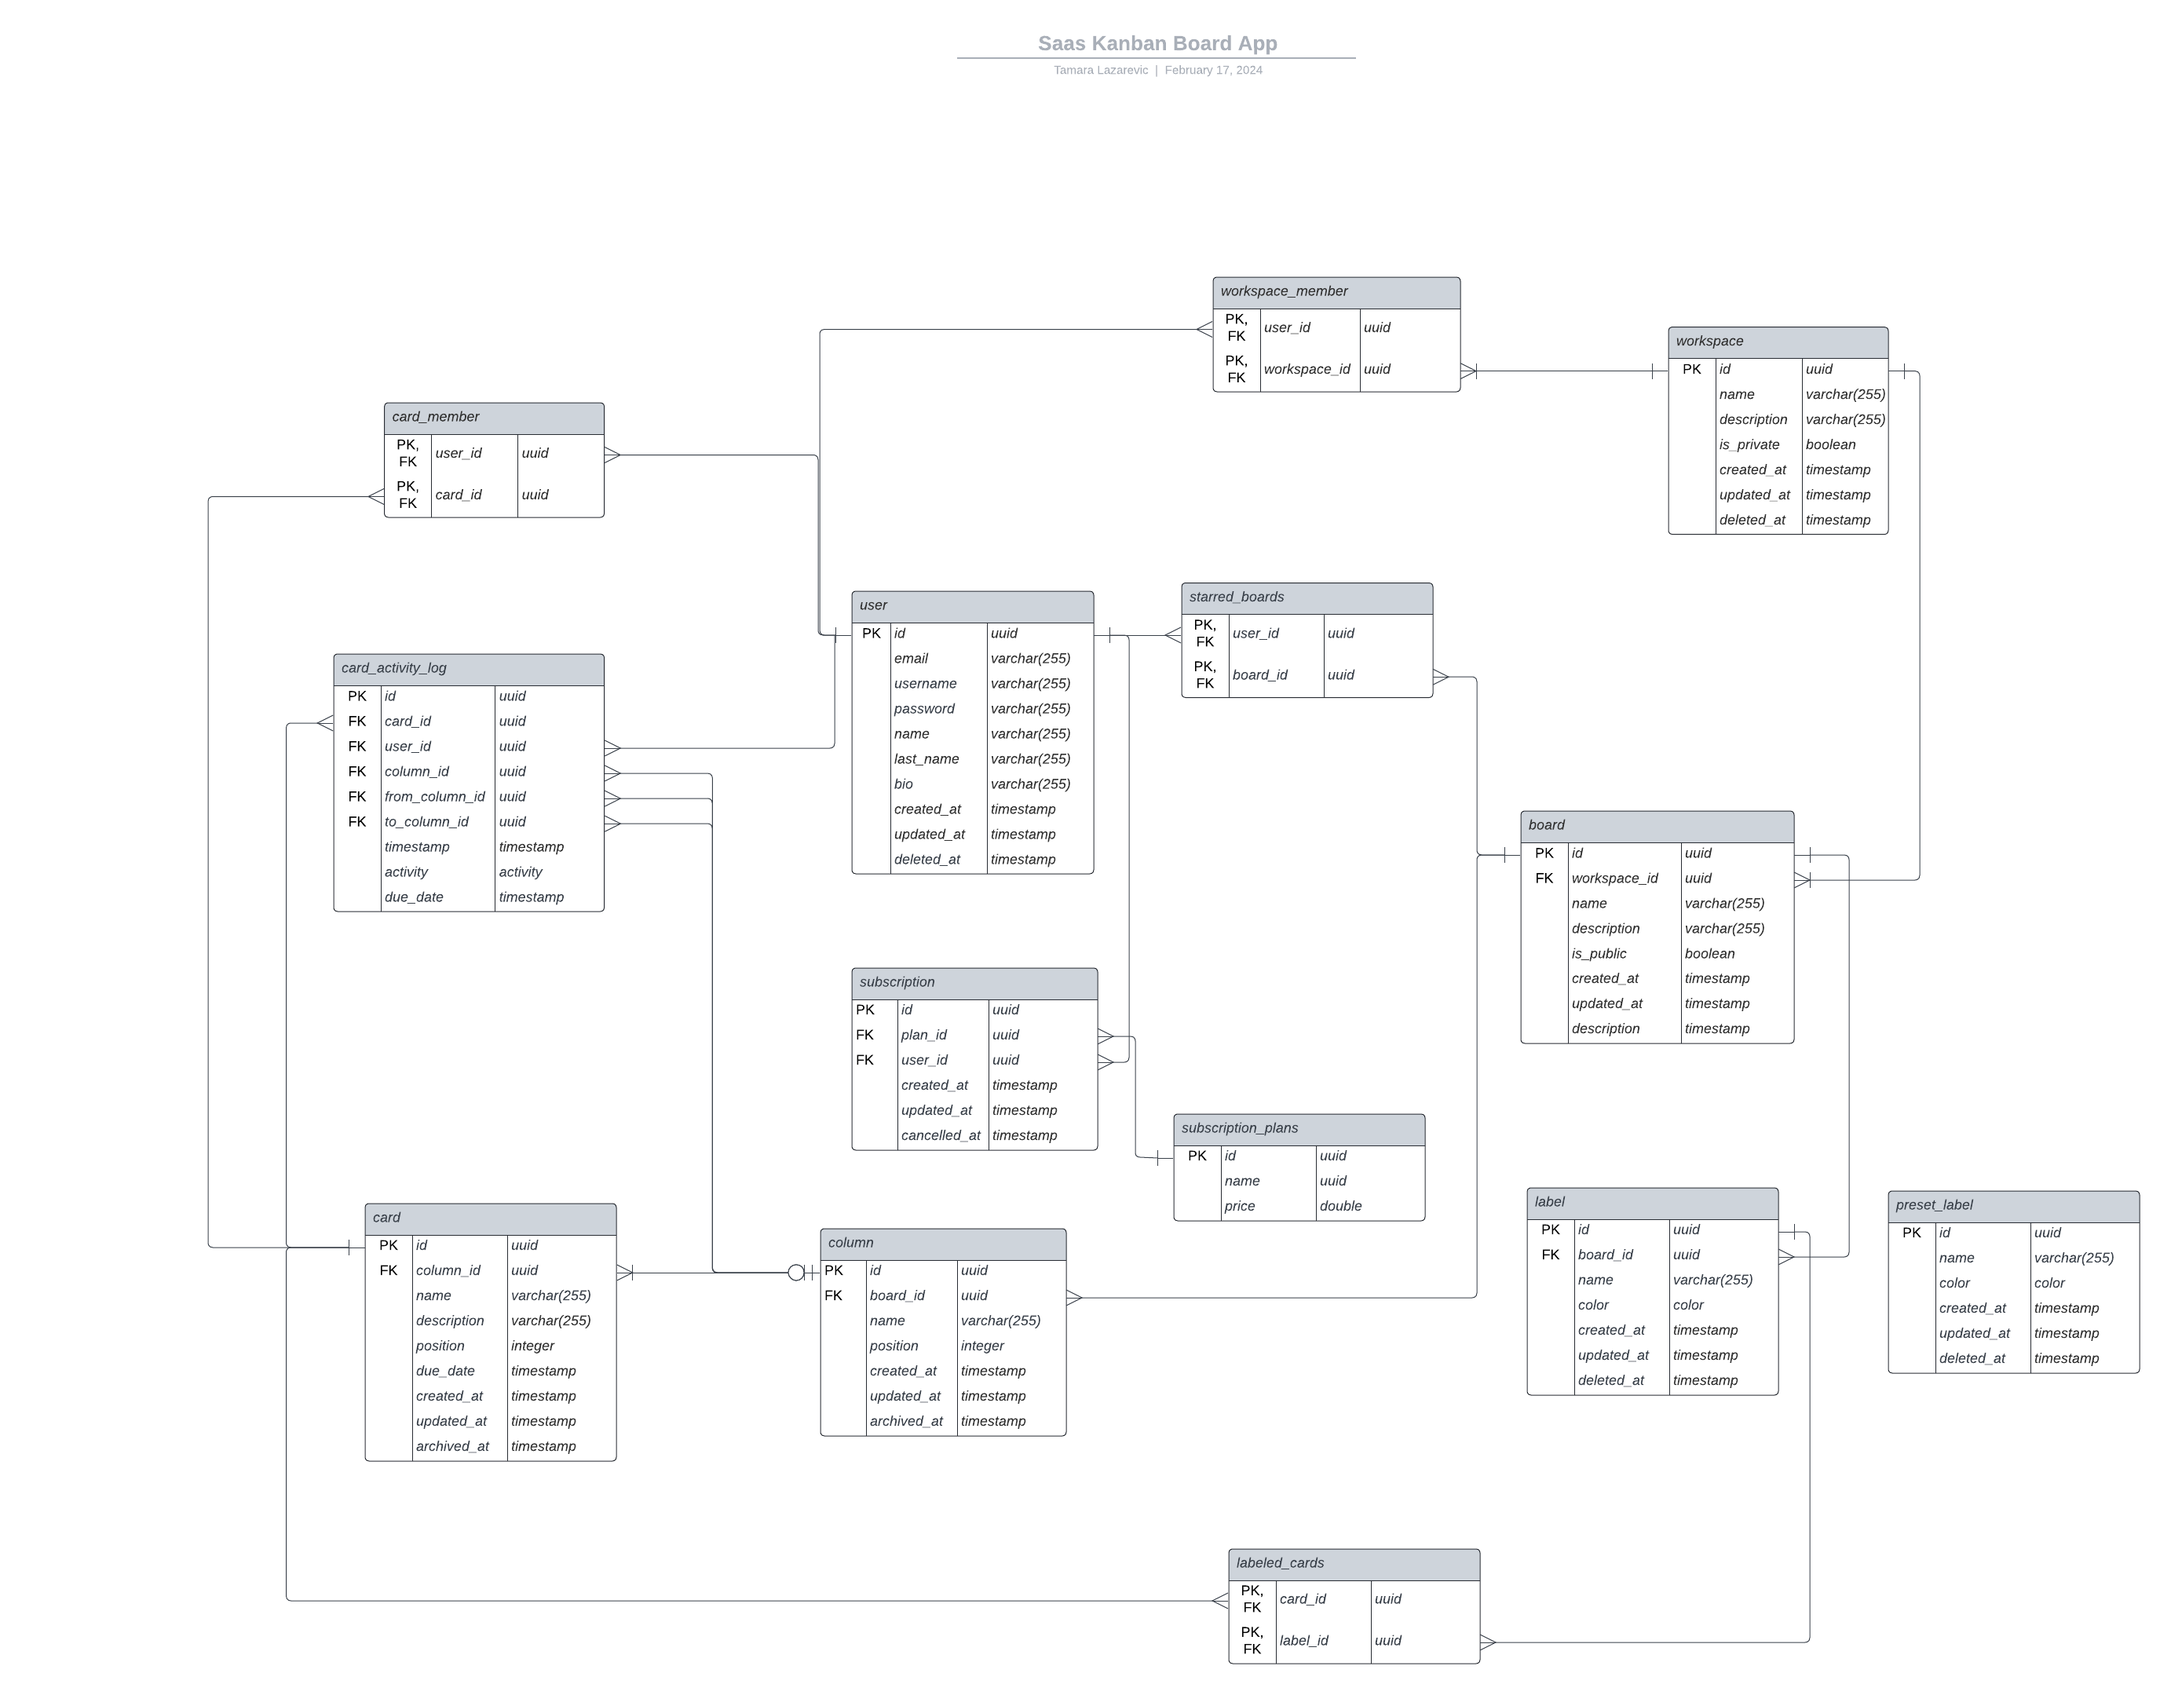
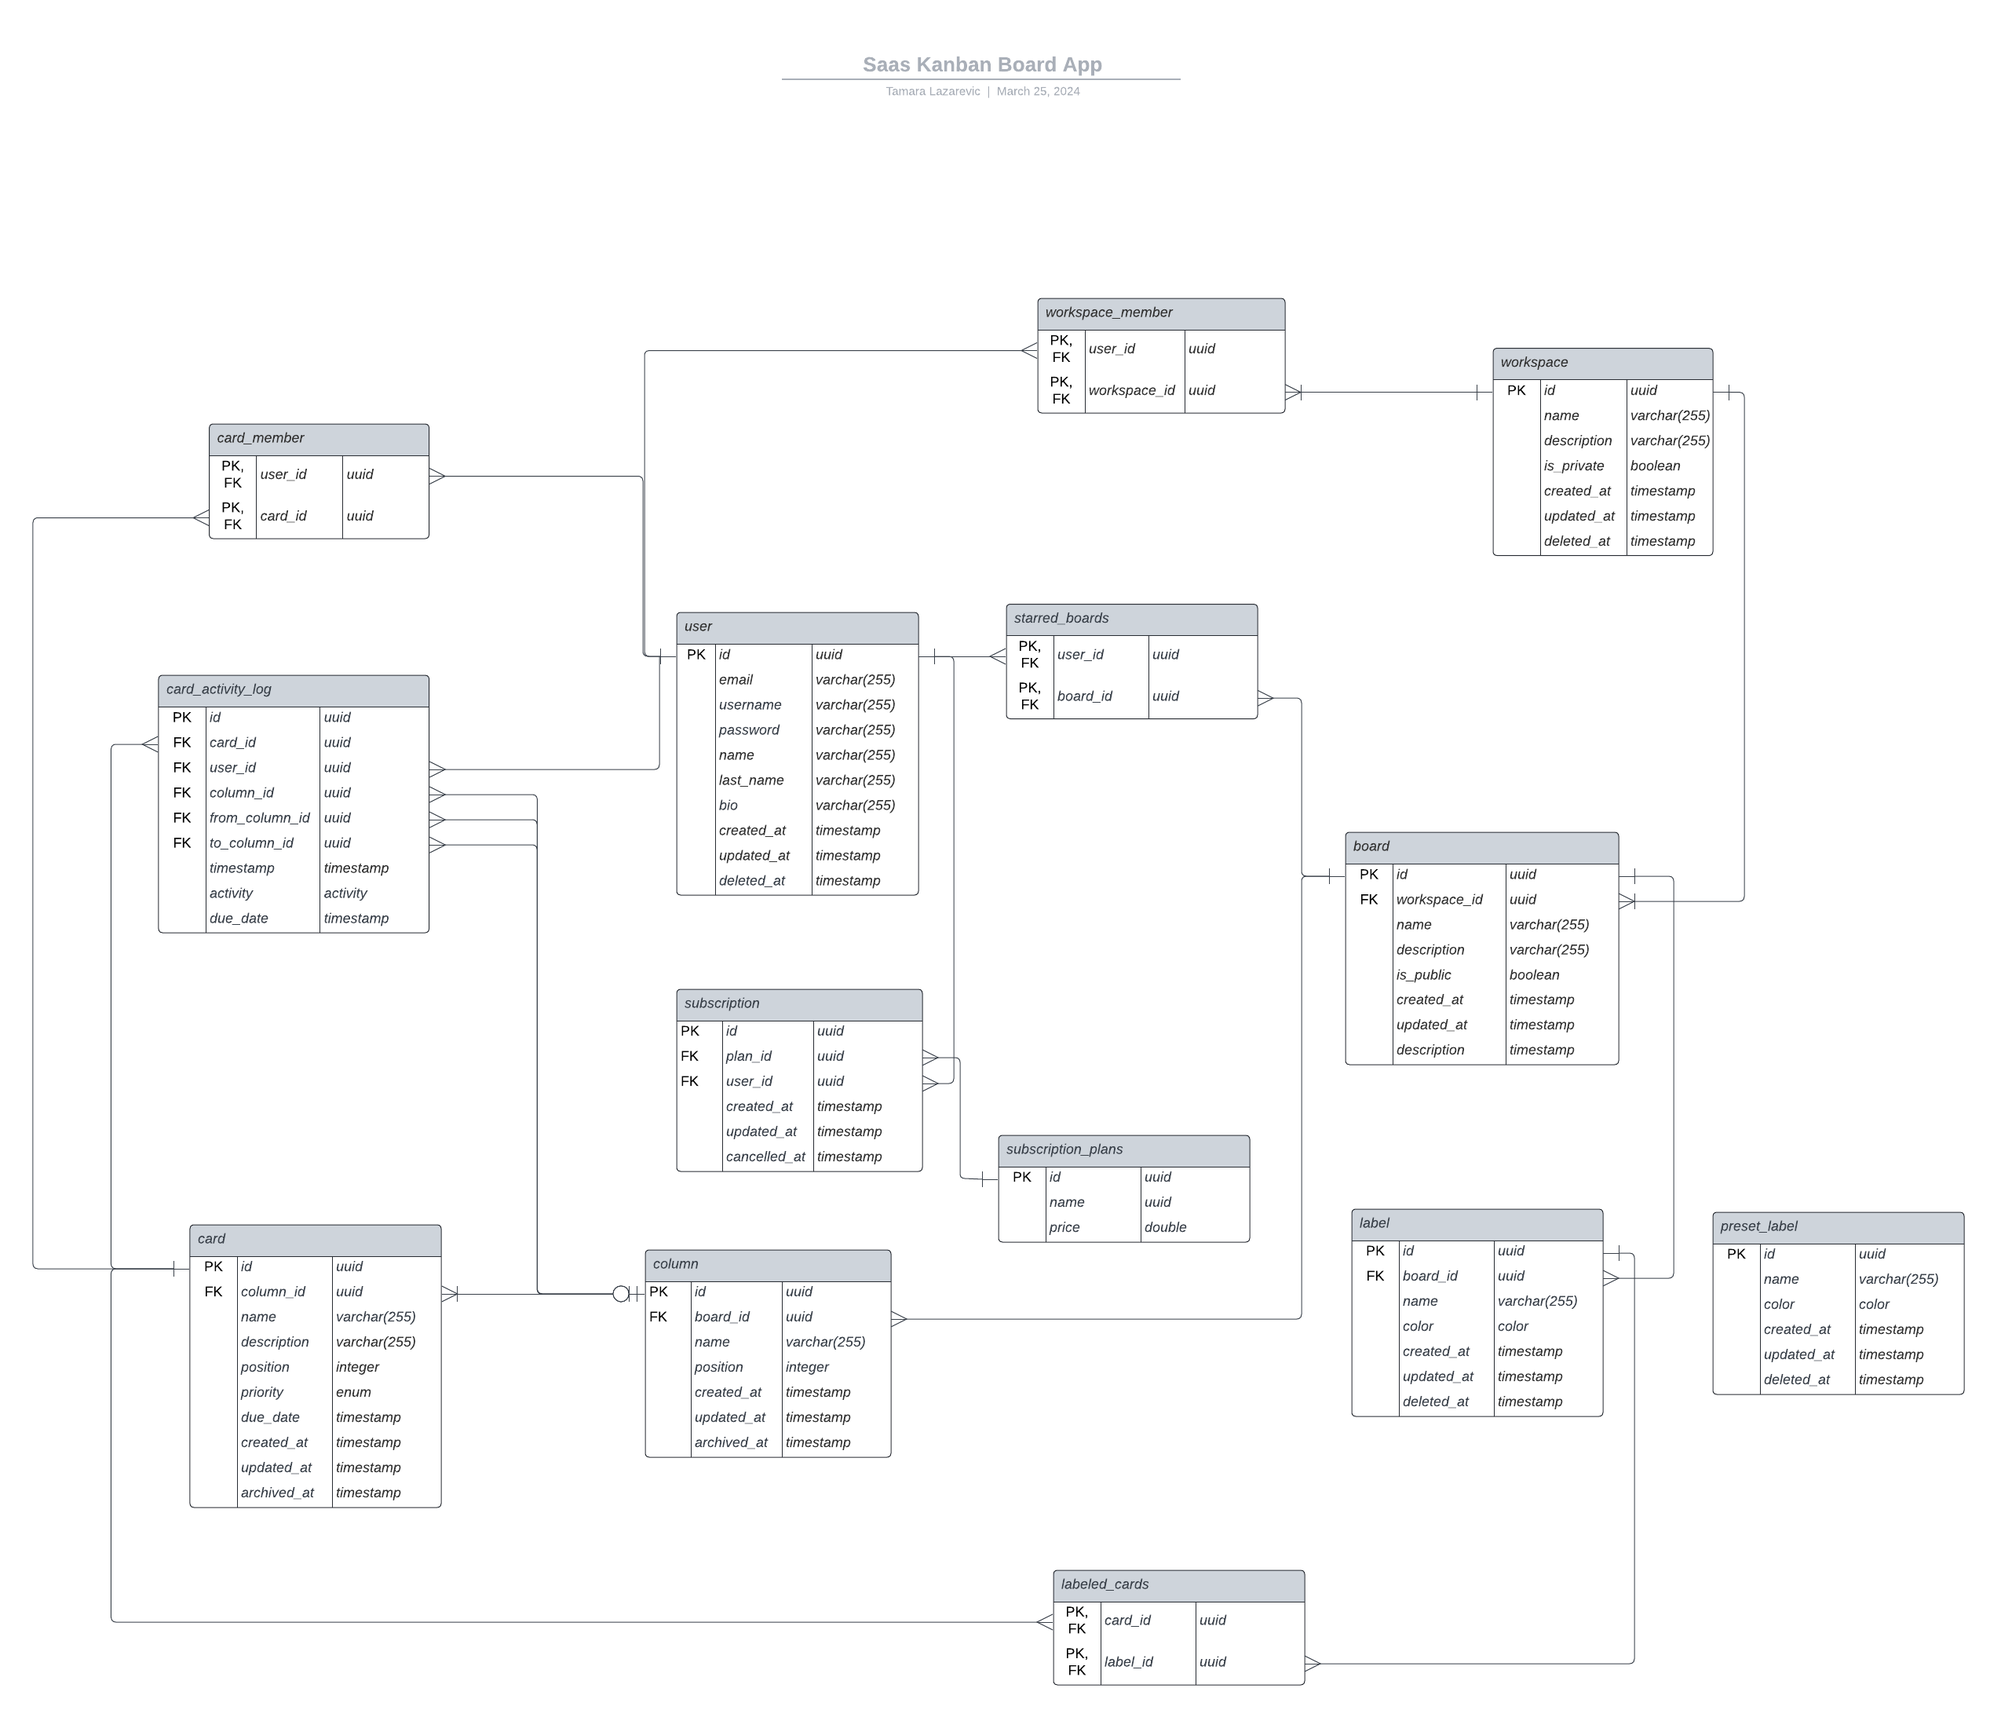
Card prioritization (#19)
* Extend diagram with priority

* Add endpoint for changing priority. Add priority to card creation. Visualize priority on board and in card details

* Stylize priorities

* Add card priority change on UI

* Fix imports

diff --git a/saas-app/app/kandy/routes/boards.js b/saas-app/app/kandy/routes/boards.js
@@ -1,7 +1,9 @@
 const { PrismaClient } = require('@prisma/client');
 const { v4: uuidv4 } = require('uuid');
+const { logger } = require('structlog');
 var express = require('express');
 var router = express.Router();
+
 
 const prisma = new PrismaClient()
 
@@ -169,6 +171,7 @@ router.post('/:id/column/:columnId/card', async (req, res) => {
     const columnId = req.params.columnId;
     const name = req.body.name;
     const description = req.body.description;
+    const priority = req.body.priority;
 
     try {
         const maxPosition = await prisma.cards.aggregate({
@@ -186,7 +189,8 @@ router.post('/:id/column/:columnId/card', async (req, res) => {
                 name: name,
                 description: description,
                 column_id: columnId,
-                position: maxPosition._max.position !== null ? maxPosition._max.position + 1 : 0
+                position: maxPosition._max.position !== null ? maxPosition._max.position + 1 : 0,
+                priority: priority
             }
         });
 
@@ -476,6 +480,66 @@ router.patch('/:id/column/:columnId/move', async (req, res) => {
         res.json({ success: true, result });
     } catch (error) {
         console.error('Error updating card or retrieving board:', error);
+        res.status(500).json({ success: false, error: 'Internal Server Error' });
+    }
+});
+
+router.patch('/:id/priority/:cardId', async (req, res) => {
+
+    try {
+
+        const boardId = req.params.id;
+        const cardId = req.params.cardId;
+
+        const userId = req.user.id
+
+        const newPriority = req.body.priority;
+
+        logger.info("Updating card priority.", { cardId: cardId, boardId: boardId })
+
+        let workspaceId = await prisma.boards.findUnique({
+            where: { id: boardId },
+            select: { workspace_id: true }
+        });
+
+        let isMember = await prisma.workspace_members.findFirst({
+            where: {
+                workspace_id: workspaceId.workspace_id,
+                user_id: userId,
+            },
+            select: { user_id: true }
+        });
+
+        if (isMember) {
+
+            let card = await prisma.cards.findUnique({
+                where: { id: cardId }
+            });
+
+            let prevPriority = card.priority;
+
+            if (newPriority == prevPriority) {
+                logger.info("New priority same as previous, nothing to do.")
+            }
+            else {
+                await prisma.cards.update({
+                    where: {
+                        id: cardId
+                    }, data: {
+                        priority: newPriority
+                    }
+                })
+                logger.info("New priority set.", { cardId: cardId, priority: newPriority })
+            }
+            res.json({ success: true });
+        }
+        else {
+            logger.info("User is not authorised to perform this action.", { userId: userId, cardId: cardId })
+            res.render('404')
+        }
+    }
+    catch (error) {
+        console.error('Error updating card.', error);
         res.status(500).json({ success: false, error: 'Internal Server Error' });
     }
 });

diff --git a/saas-app/app/kandy/public/javascripts/boards.js b/saas-app/app/kandy/public/javascripts/boards.js
@@ -97,4 +97,44 @@ document.addEventListener('DOMContentLoaded', function () {
             // TODO Update UI
         }
     });
+
+
+    document.querySelectorAll('.card-details-form').forEach(form => {
+        form.addEventListener('submit', function (event) {
+            event.preventDefault();
+
+            const form = event.target;
+            const modalId = form.closest('.modal').id;
+            const cardId = modalId.split('_').pop();
+            const boardId = window.boardId
+            const url = `/boards/${boardId}/priority/${cardId}`;
+
+            const selectedPriority = this.querySelector('select[name="priority"]').value;
+
+            const formData = new FormData(form);
+            const jsonData = {};
+            formData.forEach((value, key) => { jsonData[key] = value; });
+
+            fetch(url, {
+                method: 'PATCH',
+                headers: {
+                    'Content-Type': 'application/json',
+                },
+                body: JSON.stringify(jsonData),
+            })
+                .then(response => {
+                    if (!response.ok) {
+                        throw new Error('Network response was not ok');
+                    }
+                    return response.json();
+                })
+                .then(data => {
+                    console.log('Success:', data);
+                    window.location.reload()
+                })
+                .catch((error) => {
+                    console.error('Error:', error);
+                });
+        });
+    });
 });

diff --git a/saas-app/app/kandy/public/stylesheets/board.css b/saas-app/app/kandy/public/stylesheets/board.css
@@ -71,3 +71,15 @@
 .cards:hover {
     background-color: #f0f0f0;
 }
+
+.title-container {
+    display: flex;
+    position: relative;
+}
+
+.priority-dot {
+    position: absolute;
+    right: 1rem;
+    font-style: italic;
+    font-size: 10px;
+}
